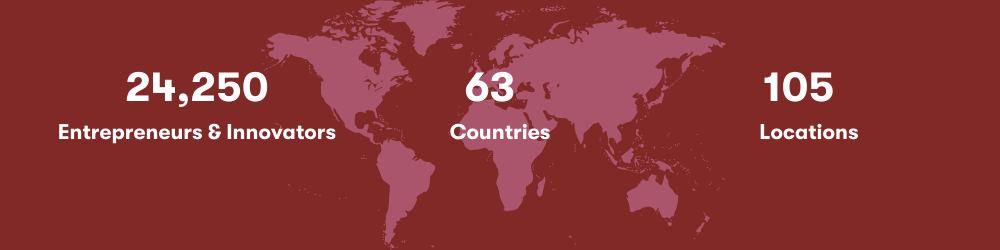
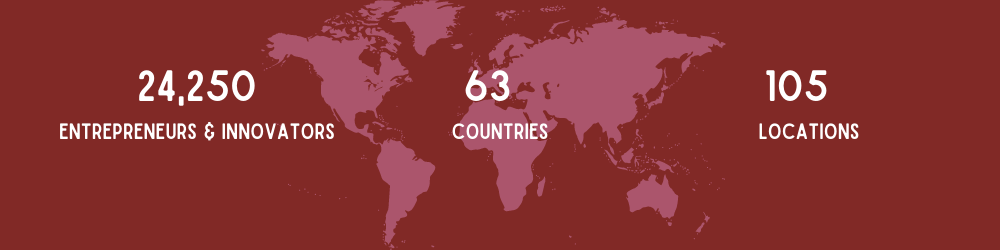
Update Pages “home”

diff --git a/content/_index.md b/content/_index.md
@@ -33,7 +33,9 @@ Impact requires significant, dedicated collaboration and collective action. The 
 
 ### JOIN A GLOBAL NETWORK
 
-IMAGE + STATS
+
+
+![24250 entrepreneurs & innovators, 63 countries, 105 locations ](images/banner-ih-global-impact-.png)
 
 ### JOIN OUR TRIBE OF CHANGEMAKERS
 
